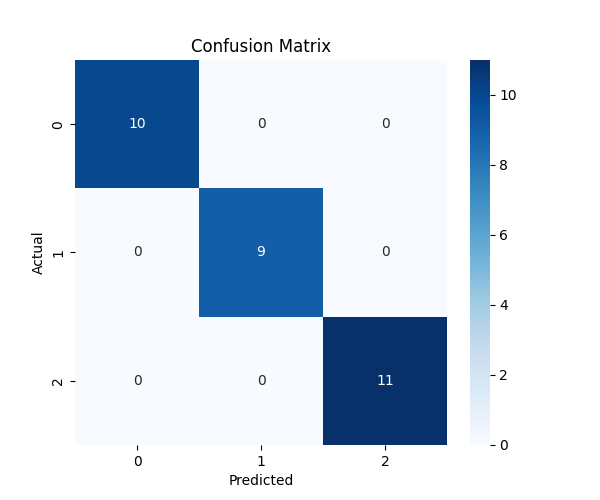
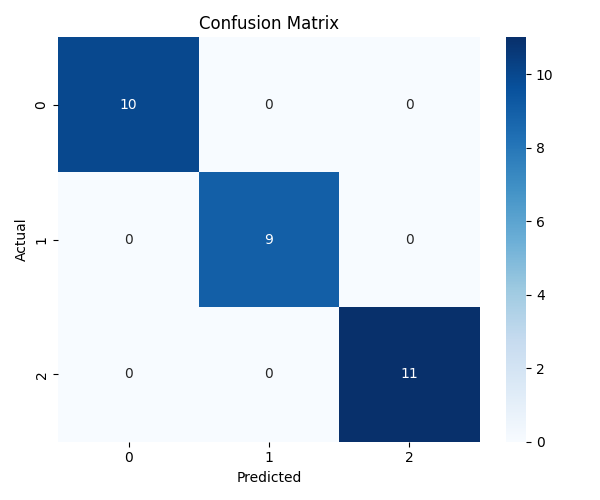
upgrade

diff --git a/src/visualize.py b/src/visualize.py
@@ -1,8 +1,13 @@
 import matplotlib.pyplot as plt
 import seaborn as sns
-from sklearn.metrics import confusion_matrix
 import numpy as np
+from sklearn.metrics import confusion_matrix
+from sklearn.preprocessing import StandardScaler
+from sklearn.decomposition import PCA
+from mpl_toolkits.mplot3d import Axes3D
 
+
+# ================= CONFUSION MATRIX =================
 def plot_confusion_matrix(y_test, y_pred, save_path):
     cm = confusion_matrix(y_test, y_pred)
 
@@ -11,33 +16,55 @@ def plot_confusion_matrix(y_test, y_pred, save_path):
     plt.xlabel("Predicted")
     plt.ylabel("Actual")
     plt.title("Confusion Matrix")
+    plt.tight_layout()
     plt.savefig(save_path)
     plt.show()
 
-def plot_decision_boundary(model, X, y, save_path):
-    X2 = X[:, 2:4]  # petal length & petal width
-    model.fit(X2, y)
 
-    x_min, x_max = X2[:, 0].min() - 1, X2[:, 0].max() + 1
-    y_min, y_max = X2[:, 1].min() - 1, X2[:, 1].max() + 1
+# ================= PCA 3D VISUALIZATION =================
+def plot_pca_3d(X, y, save_path):
+    """
+    Dùng toàn bộ 4 feature -> PCA -> 3D
+    """
 
-    xx, yy = np.meshgrid(
-        np.linspace(x_min, x_max, 200),
-        np.linspace(y_min, y_max, 200)
+    # 1. Chuẩn hóa
+    scaler = StandardScaler()
+    X_scaled = scaler.fit_transform(X)
+
+    # 2. PCA 4 -> 3
+    pca = PCA(n_components=3)
+    X_pca = pca.fit_transform(X_scaled)
+
+    # 3. Vẽ 3D
+    fig = plt.figure(figsize=(7, 6))
+    ax = fig.add_subplot(111, projection="3d")
+
+    scatter = ax.scatter(
+        X_pca[:, 0],
+        X_pca[:, 1],
+        X_pca[:, 2],
+        c=y,
+        cmap="viridis",
+        s=40
     )
 
-    Z = model.predict(np.c_[xx.ravel(), yy.ravel()])
-    Z = Z.reshape(xx.shape)
+    ax.set_xlabel("Principal Component 1")
+    ax.set_ylabel("Principal Component 2")
+    ax.set_zlabel("Principal Component 3")
+    ax.set_title("3D PCA Visualization (from 4 features)")
 
-    plt.figure(figsize=(6, 5))
-    plt.contourf(xx, yy, Z, alpha=0.3)
-    plt.scatter(X2[:, 0], X2[:, 1], c=y)
-    plt.xlabel("Petal length (cm)")
-    plt.ylabel("Petal width (cm)")
-    plt.title("Decision Boundary - Softmax Regression")
+    legend = ax.legend(
+        *scatter.legend_elements(),
+        title="Classes"
+    )
+    ax.add_artist(legend)
+
+    plt.tight_layout()
     plt.savefig(save_path)
     plt.show()
 
+
+# ================= CROSS VALIDATION =================
 def plot_cross_validation(scores, save_path):
     folds = np.arange(1, len(scores) + 1)
 
@@ -55,6 +82,7 @@ def plot_cross_validation(scores, save_path):
     plt.title("Cross-Validation Accuracy")
     plt.legend()
     plt.grid(True)
+    plt.tight_layout()
 
     plt.savefig(save_path)
     plt.show()

diff --git a/app/app.py b/app/app.py
@@ -1,0 +1,45 @@
+from fastapi import FastAPI
+import joblib
+import numpy as np
+import os
+
+app = FastAPI(
+    title="Iris Softmax Regression API",
+    description="Dự đoán loài hoa Iris bằng Softmax Regression",
+    version="1.0"
+)
+
+BASE_DIR = os.path.dirname(os.path.abspath(__file__))
+MODEL_PATH = os.path.join(BASE_DIR, "model", "iris_softmax.pkl")
+
+model = joblib.load(MODEL_PATH)
+
+iris_classes = {
+    0: "Setosa",
+    1: "Versicolor",
+    2: "Virginica"
+}
+
+@app.get("/")
+def home():
+    return {"message": "Iris Softmax Regression API is running 🚀"}
+
+@app.post("/predict")
+def predict(
+    sepal_length: float,
+    sepal_width: float,
+    petal_length: float,
+    petal_width: float
+):
+    X = np.array([[sepal_length, sepal_width, petal_length, petal_width]])
+
+    prediction = model.predict(X)[0]
+    probs = model.predict_proba(X)[0]
+
+    return {
+        "predicted_class": iris_classes[int(prediction)],
+        "confidence": float(np.max(probs)),
+        "probabilities": {
+            iris_classes[i]: float(probs[i]) for i in range(3)
+        }
+    }

diff --git a/app/train.py b/app/train.py
@@ -1,0 +1,37 @@
+import os
+import joblib
+import numpy as np
+from sklearn.model_selection import train_test_split
+
+from src.load_data import load_data
+from src.preprocess import preprocess
+from src.model import build_model
+from src.train import train_model
+from src.config_loader import load_config
+
+
+def main():
+    config = load_config()
+
+    X, y = load_data("data/iris.csv")
+
+    X_train, X_test, y_train, y_test = train_test_split(
+        X, y,
+        test_size=config["data"]["test_size"],
+        random_state=config["data"]["random_state"]
+    )
+
+    X_train, X_test = preprocess(X_train, X_test)
+
+    model = build_model(config)
+    model = train_model(model, X_train, y_train)
+
+    # Tạo thư mục model nếu chưa tồn tại
+    os.makedirs("model", exist_ok=True)
+
+    joblib.dump(model, "model/iris_softmax.pkl")
+    print("Đã lưu model: model/iris_softmax.pkl")
+
+
+if __name__ == "__main__":
+    main()

diff --git a/main.py b/main.py
@@ -10,7 +10,7 @@ from src.train import train_model
 from src.evaluate import evaluate
 from src.visualize import (
     plot_confusion_matrix,
-    plot_decision_boundary,
+    plot_pca_3d,
     plot_cross_validation
 )
 from src.cross_validation import cross_validate
@@ -71,9 +71,9 @@ def main():
         "results/confusion_matrix.png"
     )
 
-    plot_decision_boundary(
-        model, X, y,
-        "results/decision_boundary.png"
+    plot_pca_3d(
+    X, y,
+    "results/pca_3d.png"
     )
 
     cv_scores = cross_validate(model, X_train, y_train, cv=5)
